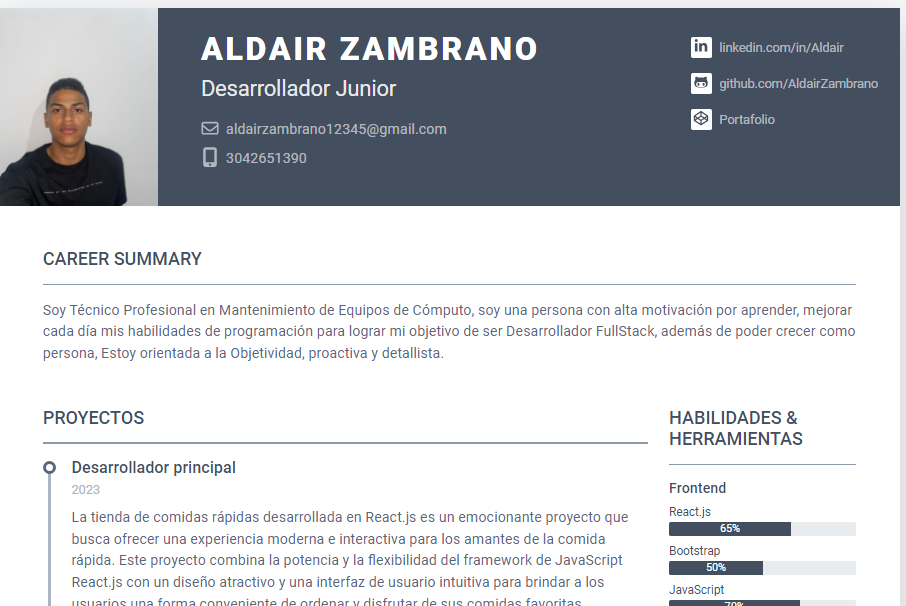
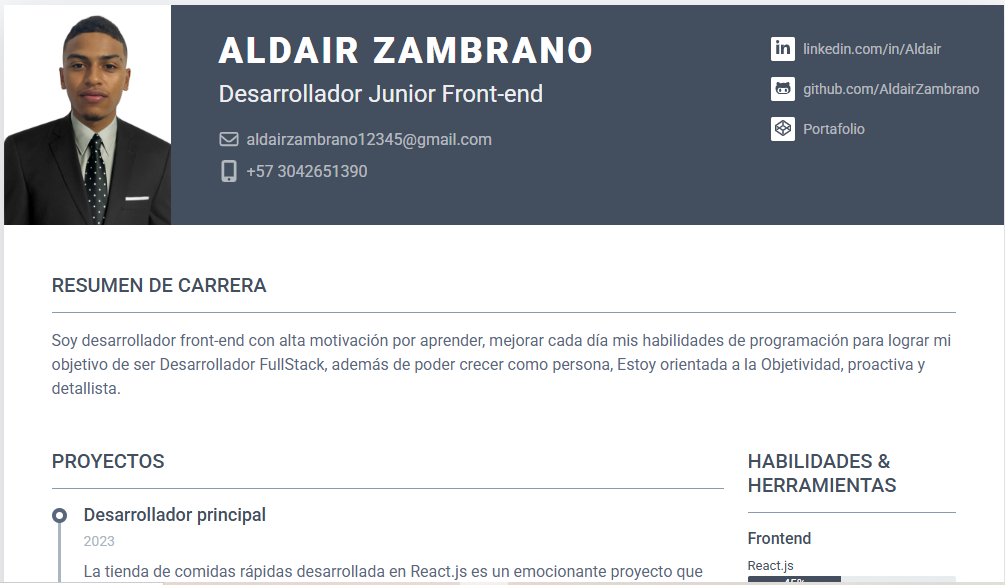
actualizacion de imagen de los proyectos

Changed region(s): [[0.0, 0.0, 1.0, 1.0], [0.2163, 0.0615, 0.6181, 0.3077], [0.7417, 0.6769, 0.8962, 0.7385]]

diff --git a/src/Component/Testimonios.jsx b/src/Component/Testimonios.jsx
@@ -4,7 +4,7 @@ import '../style/Testimonio.css'
 const CarruselActive = () => {
     return (
         <div className="carousel-inner">
-            <div className="carousel-item active">
+            {/* <div className="carousel-item active">
               <div className="container">
                 <img className="testimonio-imagen rounded-circle" src={imagenes.Cliente1} alt='cliente 1' />
                 <p className="testimonio-texto">Tiene una capacidad para expresarte de manera clara y persuasiva es altamente valorada.</p>
@@ -13,7 +13,7 @@ const CarruselActive = () => {
                   <p className="cargo">Coordinador de poscosecha de banarica</p>
                 </div>
               </div>
-            </div>
+            </div> */}
             {/* <Carrusel imagene={imagenes.Cliente3} Alt='cliente2' nombreDelTestigo='Cristhian Barrios' profesion='Ingeniero en sistema' Testigos='Tiene una mente creativa y habilidad para pensar fuera de lo convencional te distinguen. Siempre aportas ideas frescas y soluciones originales a los desafíos que enfrentas. Tus enfoques innovadores y tu disposición a explorar nuevas posibilidades inspiran a los demás y generan un ambiente de creatividad y progreso.'></Carrusel>
             <Carrusel imagene={imagenes.Cliente2} Alt='cliente3' nombreDelTestigo='Rosa Peralta' profesion='Enfermera Jefe' Testigos='Eres conocido por tu naturaleza amable y disposición para ayudar a los demás. Siempre estás dispuesto a brindar apoyo, ya sea en proyectos académicos, en problemas personales o simplemente para escuchar. Tu actitud solidaria y empática te hace destacar como alguien en quien se puede confiar y contar.'></Carrusel>
                  */}
